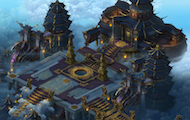
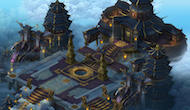
add

diff --git a/src/components/HomePage.vue b/src/components/HomePage.vue
@@ -113,7 +113,7 @@ export default {
     return {
       bgMinHeight: 0 + 'px',
       parallaxSpeed: 0.1,
-      imgPosition: '50% 100%',
+      imgPosition: '50% 50%',
       bgUrl: {
         src: '/static/homePage/homeBg.jpg',
         placeholder: '/static/homePage/placeholder/homeBg.jpg'
@@ -180,8 +180,7 @@ export default {
   methods: {
     computeBgHeight: function () {
       var clientWidth = document.documentElement.clientWidth
-      let diff = 40 + 67
-      var rs = clientWidth * 1103.0 / 1900.0 - diff
+      var rs = clientWidth * 1103.0 / 1900.0
       this.bgMinHeight = rs + 'px'
     },
     scrollf: function () {

diff --git a/config/index.js b/config/index.js
@@ -13,8 +13,8 @@ module.exports = {
     proxyTable: {},
 
     // Various Dev Server settings
-    host: '127.0.0.1', // can be overwritten by process.env.HOST
-    port: 80, // can be overwritten by process.env.PORT, if port is in use, a free one will be determined
+    host: '192.168.6.103', // can be overwritten by process.env.HOST
+    port: 4000, // can be overwritten by process.env.PORT, if port is in use, a free one will be determined
     autoOpenBrowser: false,
     errorOverlay: true,
     notifyOnErrors: true,
